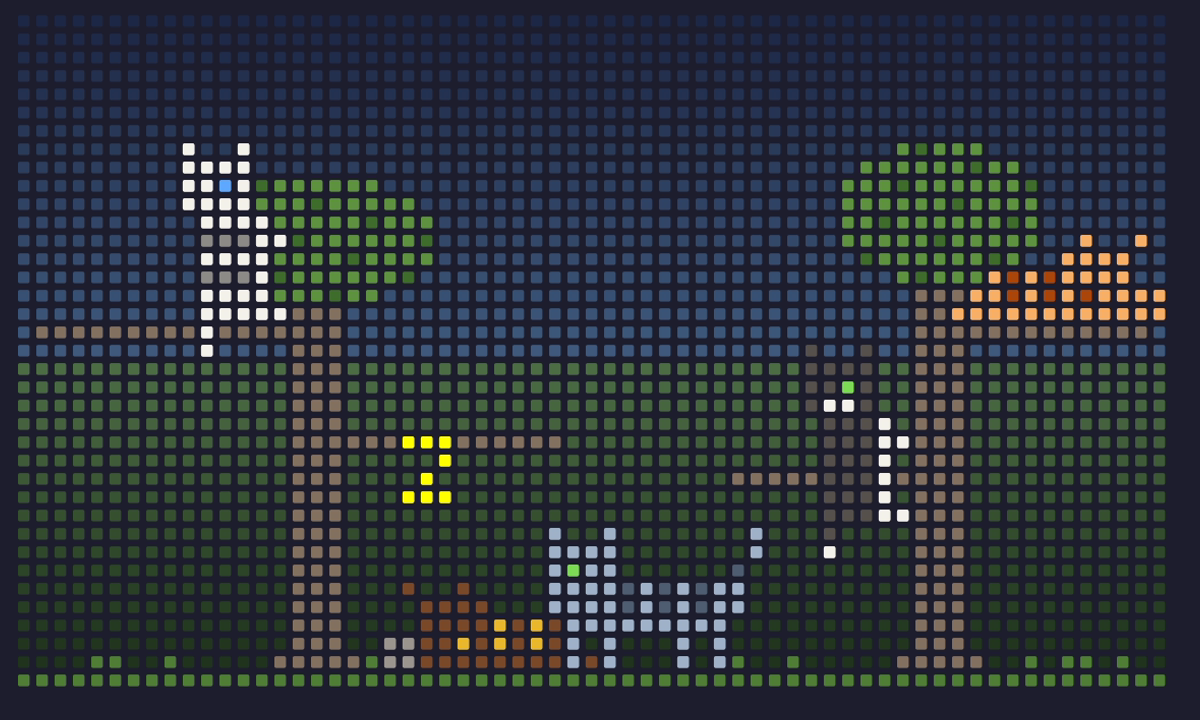
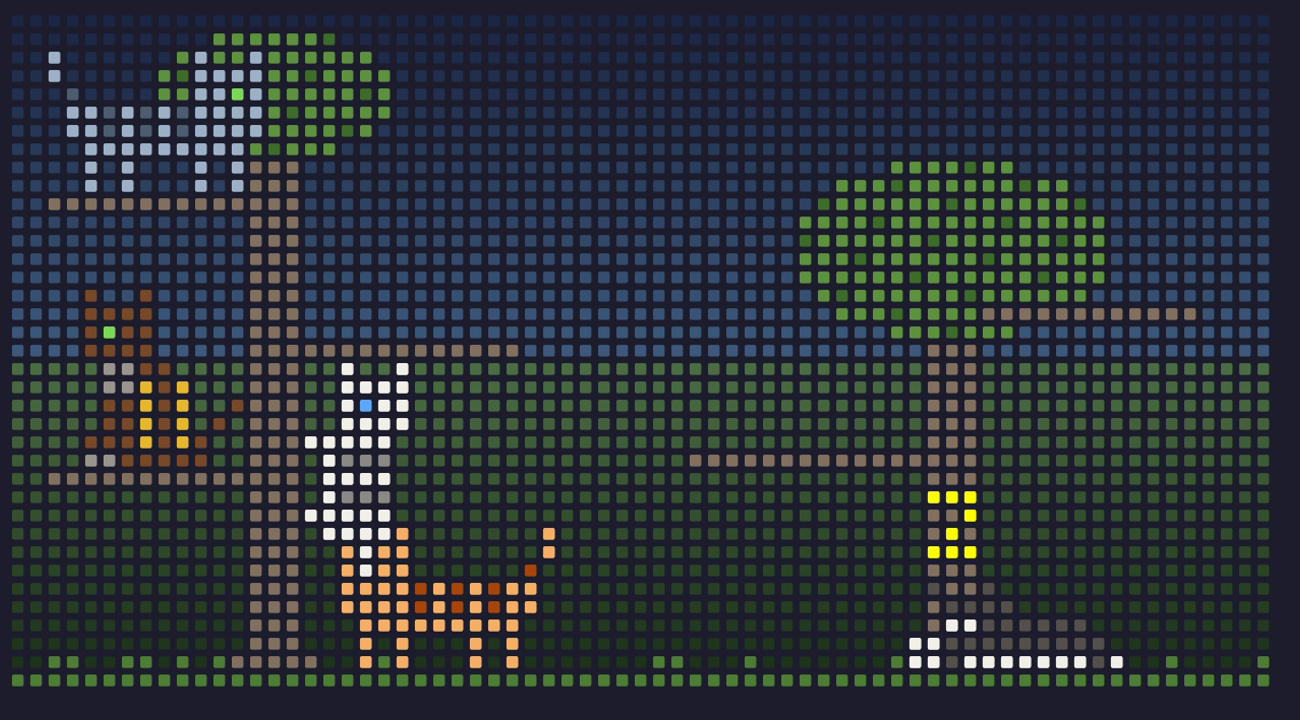
Take the saver stills again, 1300 wide: the clock large, three squares to its pixel, its seconds and all, where the 1200 the demo is had room for it medium; the runner's with a block of flats, some of its windows lit

diff --git a/docs/dev-remarks.md b/docs/dev-remarks.md
@@ -177,7 +177,7 @@ VHS 0.12.0 在這台機器上會印 `Creating docs/demo.gif...` 卻不出檔（w
 
 ### saver 的靜態圖（2026-10-08）
 
-README 的「What you see」每種 saver 一節，各配一張靜態圖 `docs/savers/<種類>.png`（使用者：不需要 gif）。用 VHS 的 `Screenshot` 拍：`.local/demos/savers.tape` 與 `savers.yaml`（七個 profile 照 Savers 的順序，`make shots`），在設定畫面逐一 `p` 預覽、等畫面有內容再拍。runner 是 city 配 night（使用者選的，新場景、夜裡一部分窗戶亮著）；custom 跑 cmatrix（使用者選的，所以拍照要裝 cmatrix）；snake 與 tetromino 用 `super-fast`、分別等 15 與 25 秒，畫面才不會空空的（我的判斷）。
+README 的「What you see」每種 saver 一節，各配一張靜態圖 `docs/savers/<種類>.png`（使用者：不需要 gif）。用 VHS 的 `Screenshot` 拍：`.local/demos/savers.tape` 與 `savers.yaml`（七個 profile 照 Savers 的順序，`make shots`），在設定畫面逐一 `p` 預覽、等畫面有內容再拍。runner 是 city 配 night（使用者選的，新場景、夜裡一部分窗戶亮著）；custom 跑 cmatrix（使用者選的，所以拍照要裝 cmatrix）；snake 與 tetromino 用 `super-fast`、分別等 15 與 25 秒，畫面才不會空空的（我的判斷）；clock 用 `large`（使用者：全螢幕應該放得下 3 × 3），`HH MM SS` 的 large 要 148 欄，所以拍照的視窗是 1300 × 720、151 欄（gif 的 1200 寬只有 140 欄，放不下會先拿掉秒），七張一樣大。
 
 畫面是隨機的，`make shots` 一次拍七張，挑過才進版控：runner 要有一棟完整的樓在跑者右邊；snake、tetromino 要沒有殘影。VHS 的畫面（headless 瀏覽器裡的 xterm.js）偶爾會在預覽開始後留著設定畫面左上角幾個字，snake、tetromino 的上面幾列不會再畫，殘影就一直留著；custom 偶爾整張是空的。同樣的按鍵節奏在 tmux 裡試 40 次都沒有殘影——tmux 記的是 locku 實際寫出的內容——所以是 VHS 顯示的問題，不是 locku 的（2026-10-08）。
 
